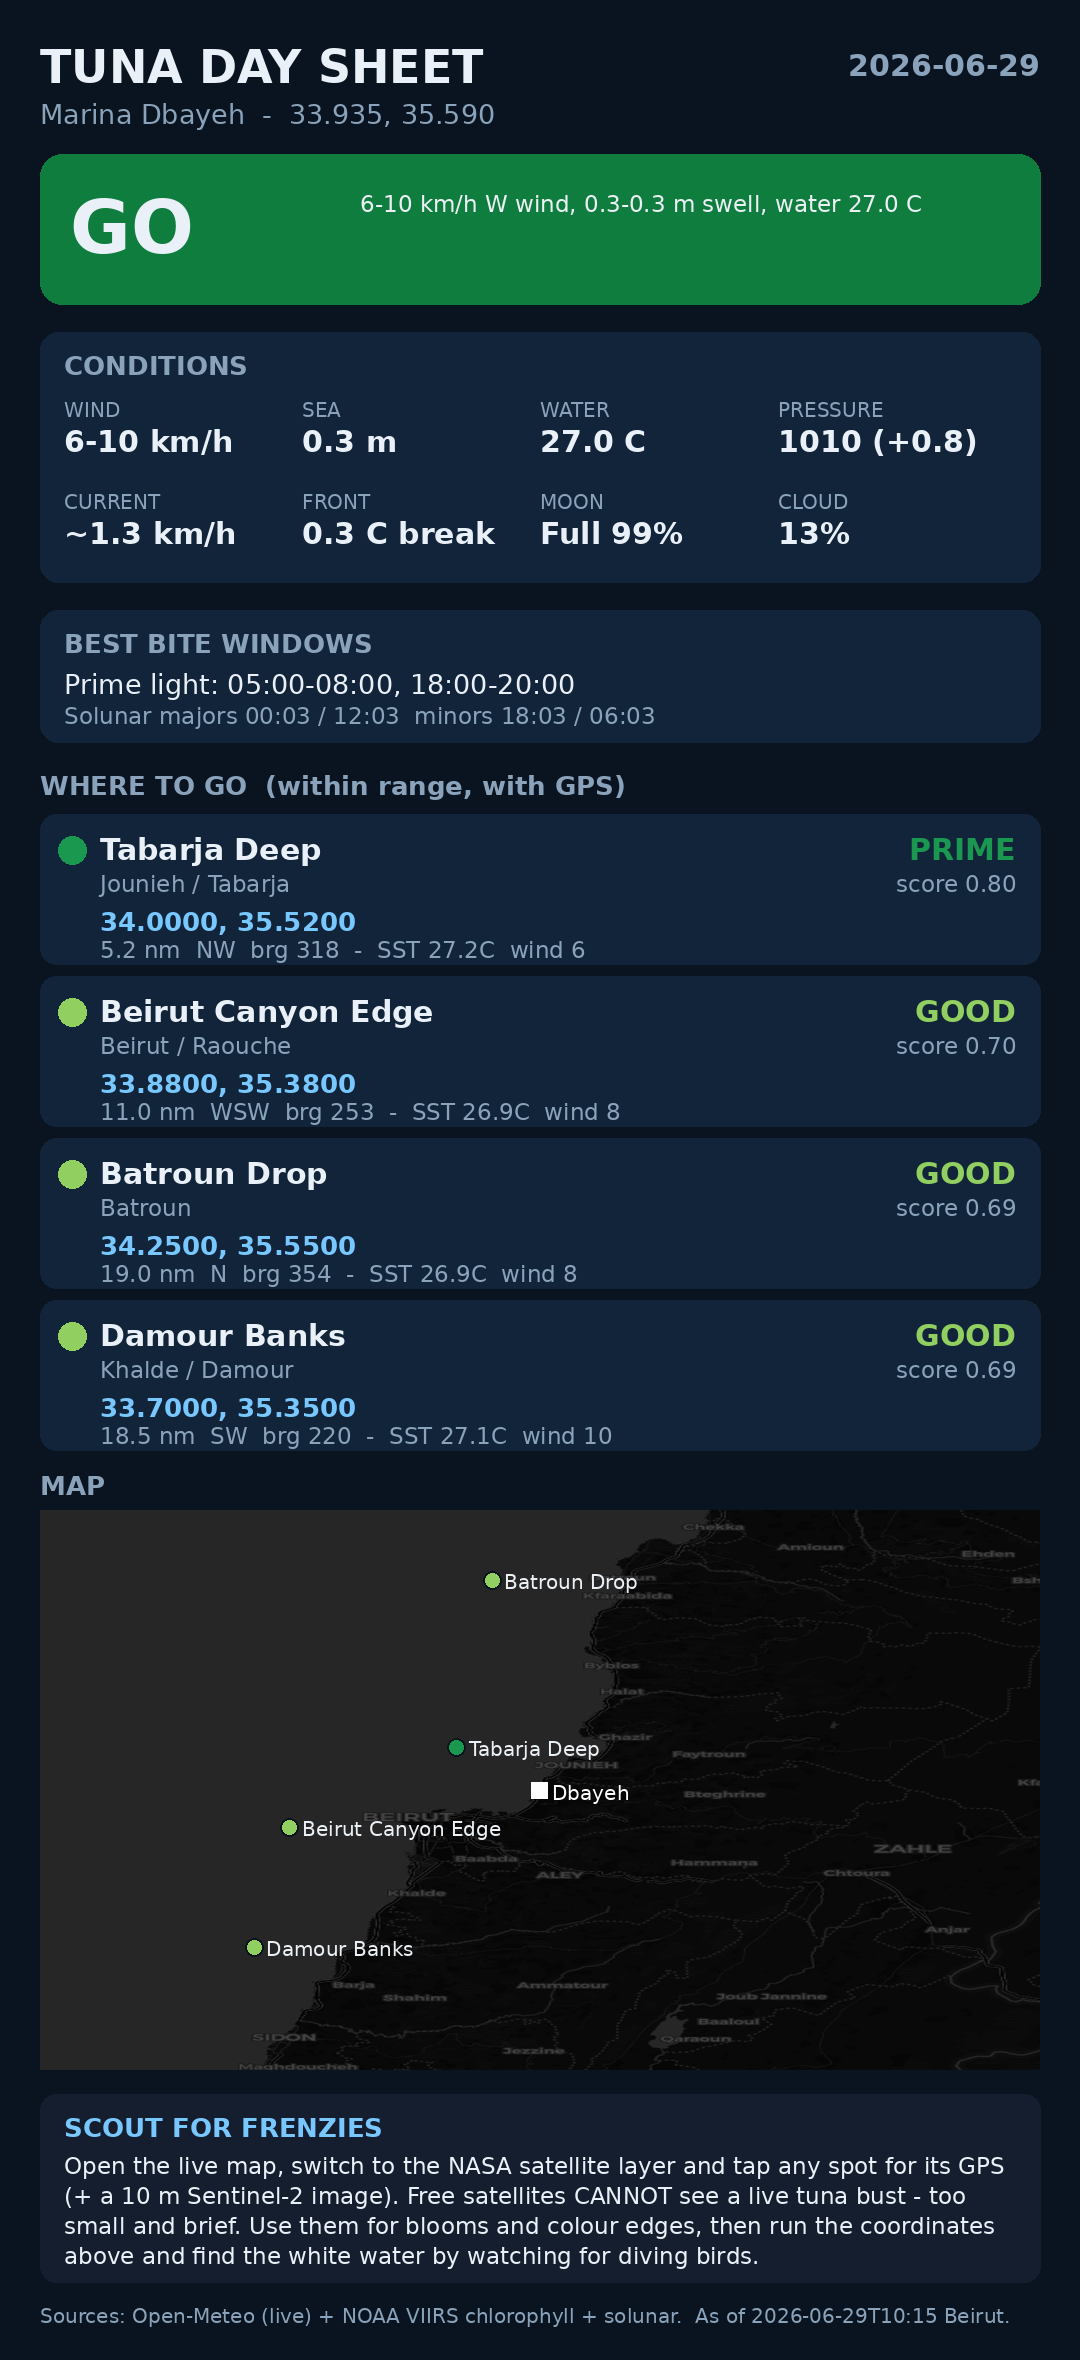
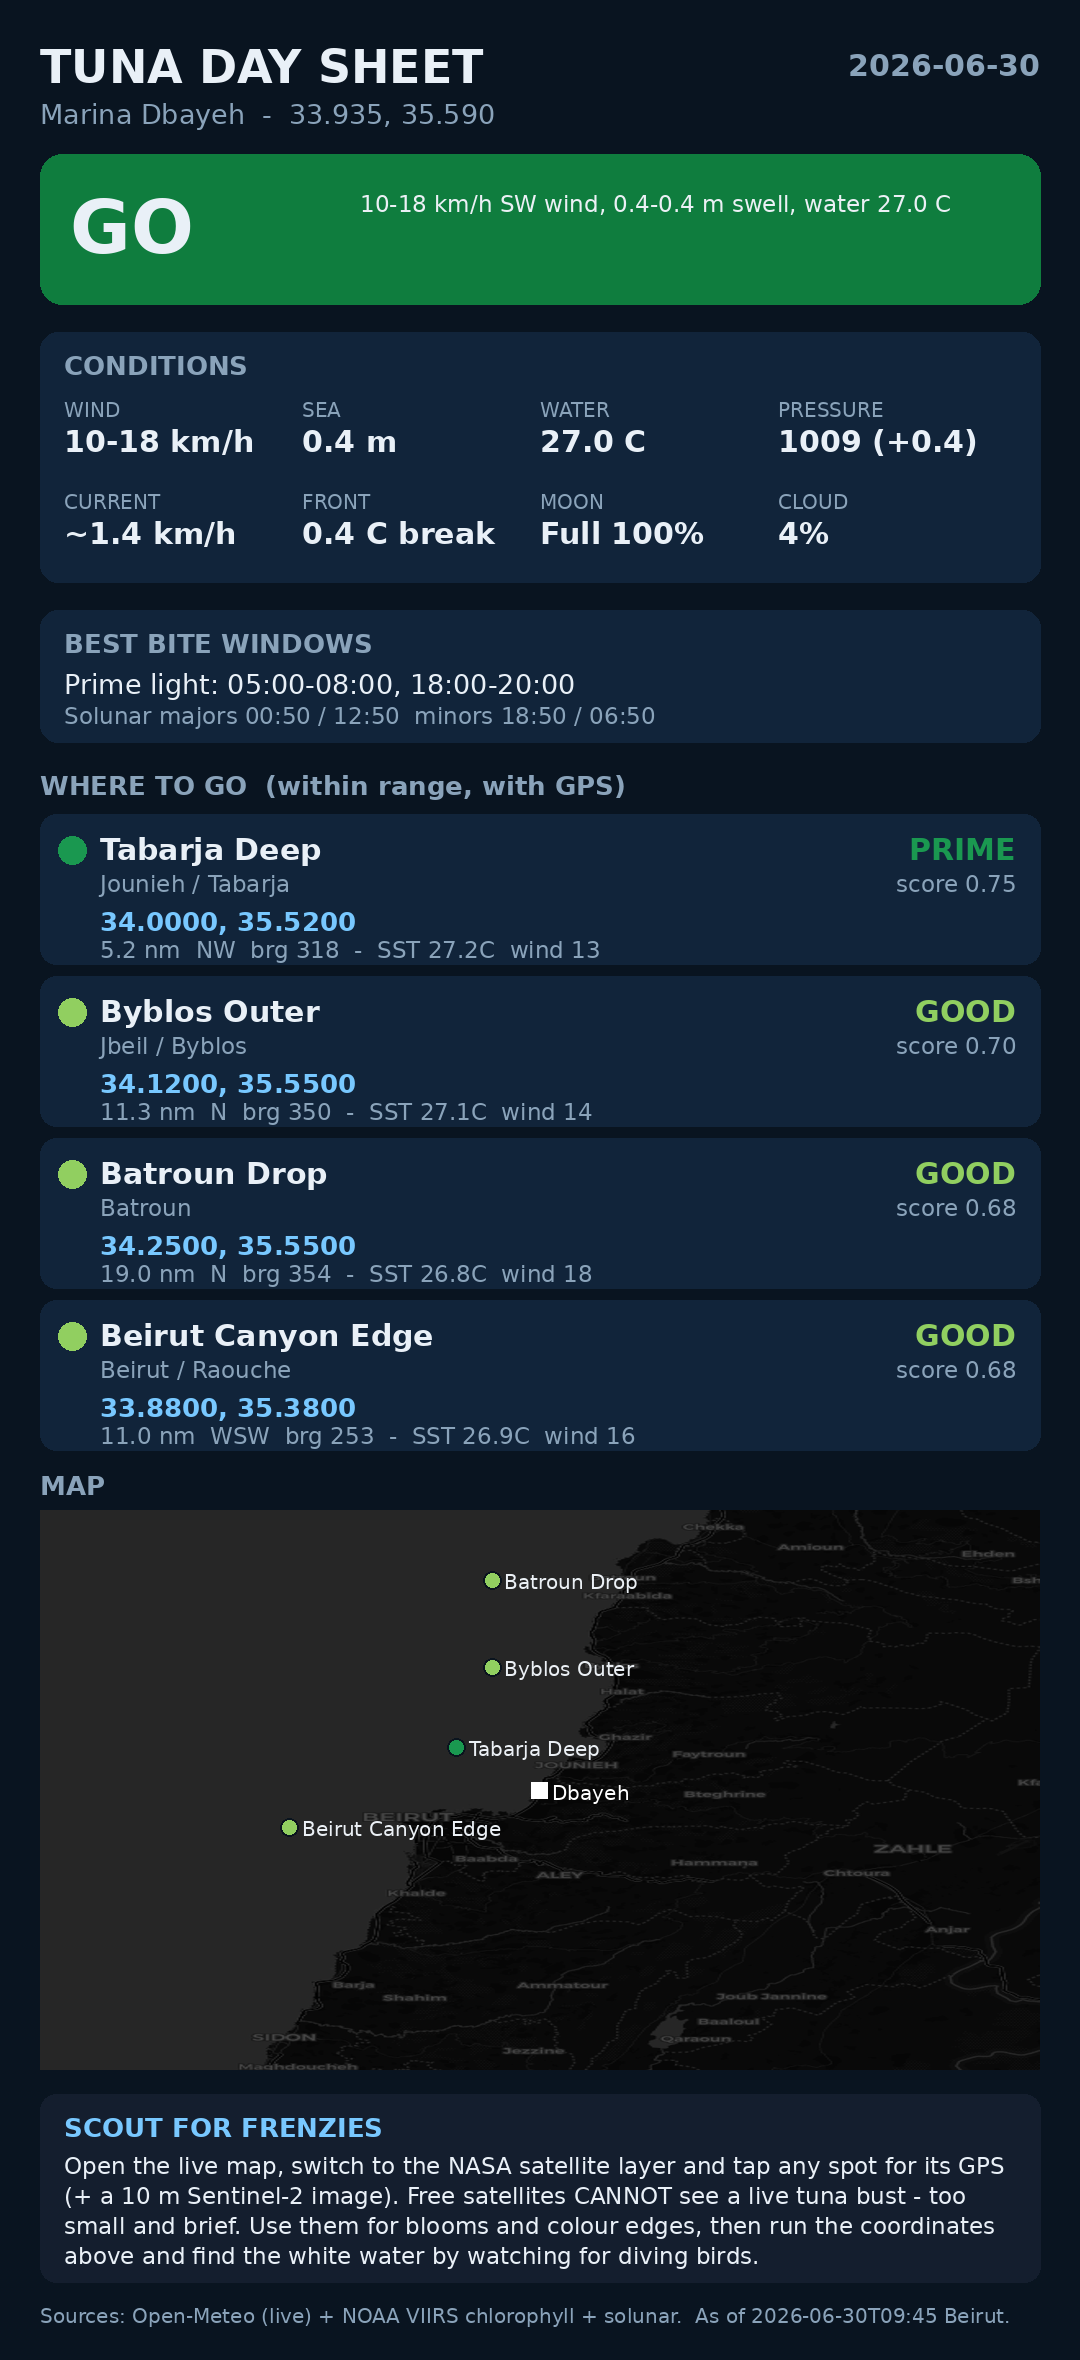
chore: daily tuna report + day image

diff --git a/docs/today.md b/docs/today.md
@@ -1,28 +1,28 @@
-# Tuna day sheet - 2026-06-29T10:15 (Asia/Beirut)
+# Tuna day sheet - 2026-06-30T09:45 (Asia/Beirut)
 
 **From Marina Baye, Dbayeh** (33.935, 35.590, range 40 km)
 
-## VERDICT: GO - 6-10 km/h W wind, 0.3-0.3 m swell, water 27.0 C
+## VERDICT: GO - 10-18 km/h SW wind, 0.4-0.4 m swell, water 27.0 C
 
 | Ocean | |
 |---|---|
-| Sea temp | 26.9 C-27.2 C (avg 27.0) |
-| Swell | 0.3 m-0.3 m |
-| Wind | 6.5 km/h-9.8 km/h W |
-| Pressure | 1010.0 hPa, rising (+0.8/3h) |
-| Current | ~1.3 km/h |
-| Moon | Full Moon, 99% |
-| Solunar majors | 00:03 / 12:03 (approx) |
+| Sea temp | 26.8 C-27.2 C (avg 27.0) |
+| Swell | 0.4 m-0.4 m |
+| Wind | 10.5 km/h-18.1 km/h SW |
+| Pressure | 1009.4 hPa, steady (+0.4/3h) |
+| Current | ~1.4 km/h |
+| Moon | Full Moon, 100% |
+| Solunar majors | 00:50 / 12:50 (approx) |
 
 ## Where to go (within range, best first)
 
 | # | Rating | Score | Dist | Head | SST | Wind | Spot | Coordinates |
 |--:|:--|--:|--:|:--|--:|--:|:--|:--|
-| 1 | PRIME | 0.80 | 5.2 nm | NW | 27.2 C | 6.5 km/h | Tabarja Deep (Jounieh / Tabarja) | 34.000, 35.520 |
-| 2 | GOOD | 0.70 | 11.0 nm | WSW | 26.9 C | 8.0 km/h | Beirut Canyon Edge (Beirut / Raouche) | 33.880, 35.380 |
-| 3 | GOOD | 0.69 | 19.0 nm | N | 26.9 C | 8.1 km/h | Batroun Drop (Batroun) | 34.250, 35.550 |
-| 4 | GOOD | 0.69 | 18.5 nm | SW | 27.1 C | 9.8 km/h | Damour Banks (Khalde / Damour) | 33.700, 35.350 |
-| 5 | GOOD | 0.65 | 11.3 nm | N | 27.0 C | 8.0 km/h | Byblos Outer (Jbeil / Byblos) | 34.120, 35.550 |
+| 1 | PRIME | 0.75 | 5.2 nm | NW | 27.2 C | 12.7 km/h | Tabarja Deep (Jounieh / Tabarja) | 34.000, 35.520 |
+| 2 | GOOD | 0.70 | 11.3 nm | N | 27.1 C | 14.2 km/h | Byblos Outer (Jbeil / Byblos) | 34.120, 35.550 |
+| 3 | GOOD | 0.68 | 19.0 nm | N | 26.8 C | 18.1 km/h | Batroun Drop (Batroun) | 34.250, 35.550 |
+| 4 | GOOD | 0.68 | 11.0 nm | WSW | 26.9 C | 15.9 km/h | Beirut Canyon Edge (Beirut / Raouche) | 33.880, 35.380 |
+| 5 | GOOD | 0.68 | 18.5 nm | SW | 27.2 C | 10.5 km/h | Damour Banks (Khalde / Damour) | 33.700, 35.350 |
 
 **Best bet:** Tabarja Deep - 5.2 nm bearing 318 (NW). Early morning before the sea breeze fills in; work the convergence lines.
 